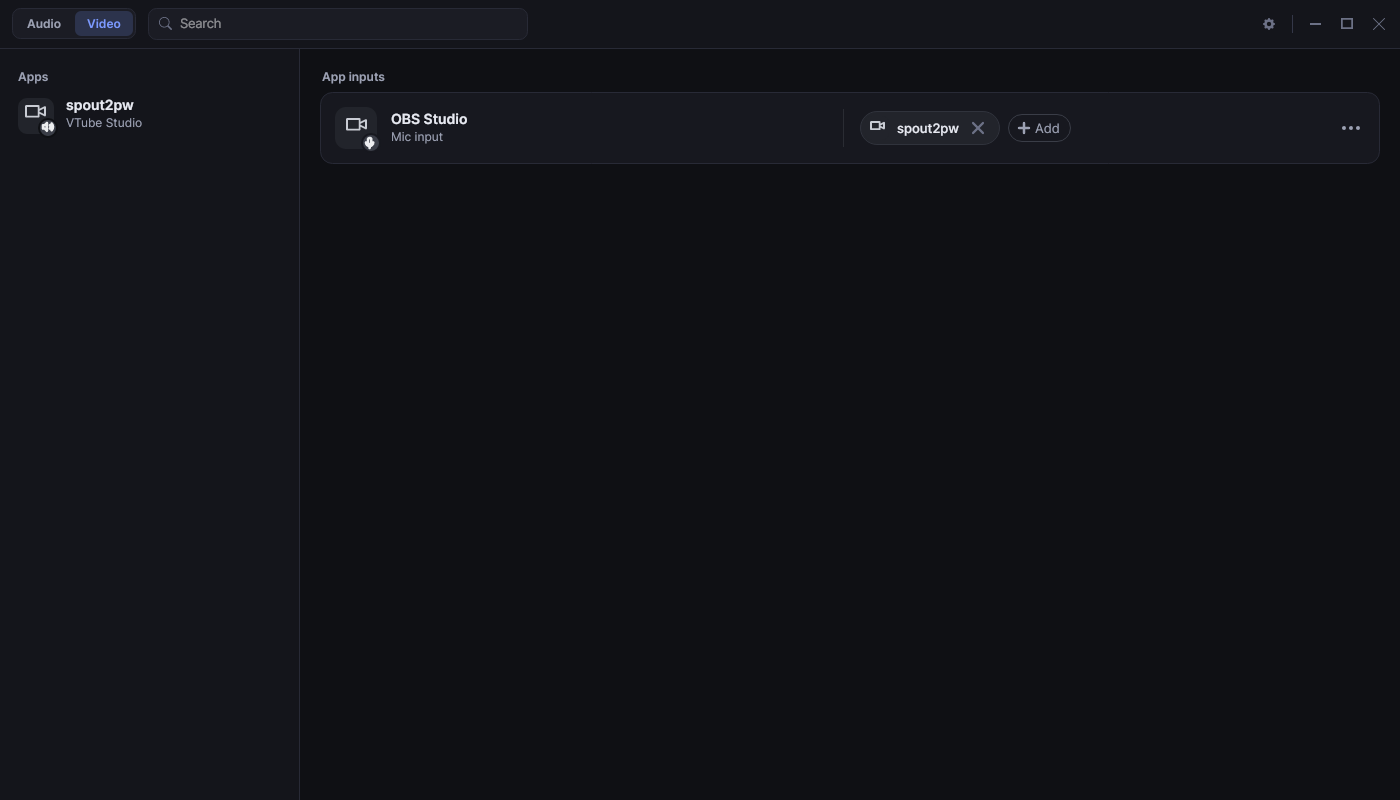
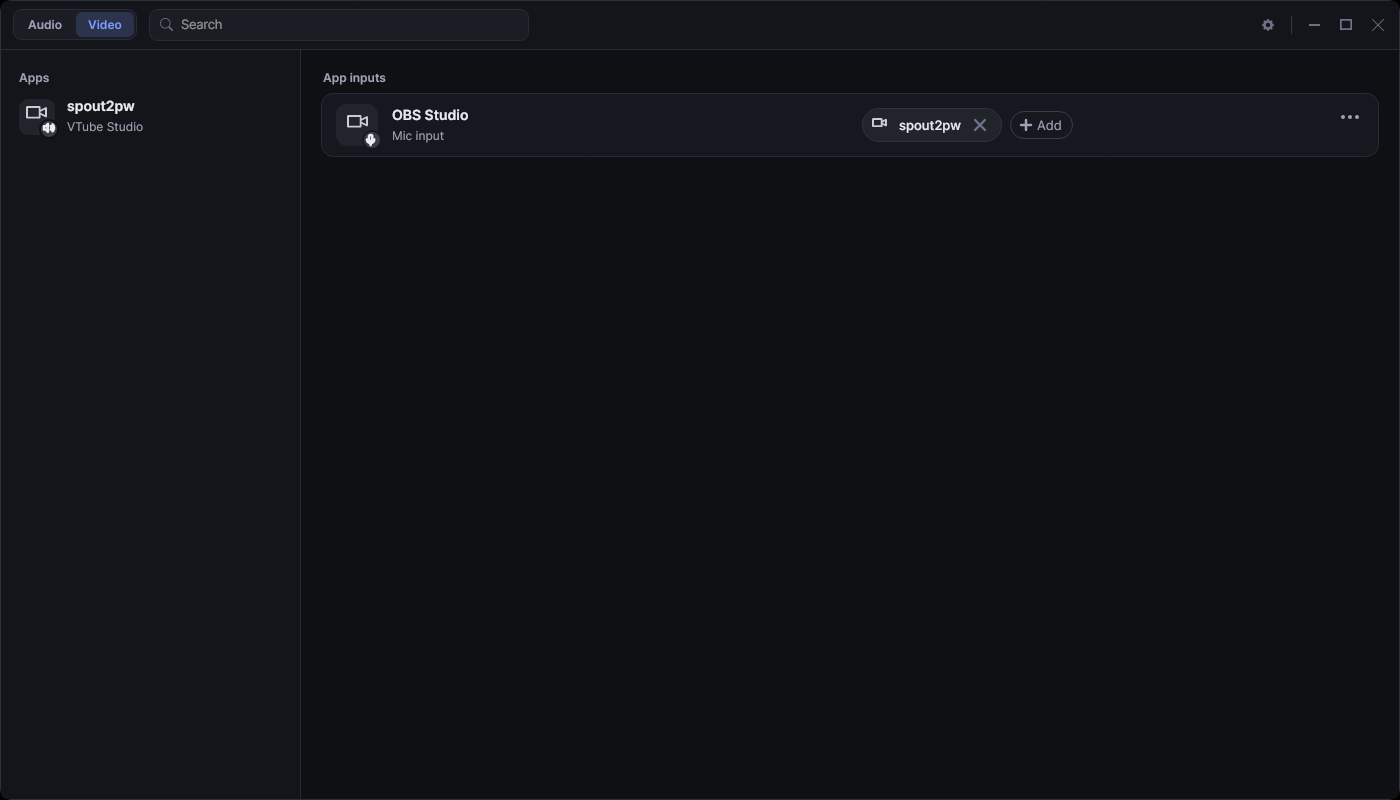
Fix drag flicker, drag cursor, row wrapping and the square window edge
From trying the redesign on a real desktop:

- Dragging over a row flickered: DragLeave bubbles up from the row's
  children, so crossing its icon, fader or chips cleared the highlight.
  Only clear it when the pointer really leaves the row, and while a drag
  is in flight stop row internals from hit-testing at all. The hovered
  row's content is greyed out under an accent outline.
- The drag cursor was the plain arrow: a Link drop makes X11 ask the
  cursor theme for "dnd-link", which Breeze doesn't ship. Use Copy
  ("dnd-copy"). Sources get a hand cursor on hover instead of SizeAll.
- Rows: identity + volume form one block and the chips a second one that
  wraps under the name (aligned with it) when the row is narrow, instead
  of being squeezed into a sliver that made rows tall and half empty.
  More room between names and their type/format line.
- The window gets rounded corners and a hairline border (transparent
  window, squared off when maximized), so it no longer looks like content
  sliced off at the screen edge.
- Screenshot tool: --size WxH.

diff --git a/src/AutoRoute.App/Behaviors/DropTargetBehavior.cs b/src/AutoRoute.App/Behaviors/DropTargetBehavior.cs
@@ -62,7 +62,9 @@ public static class DropTargetBehavior
         if (sender is not Control control) return;
         if (Compatible(control, e))
         {
-            e.DragEffects = DragDropEffects.Link;
+            // Copy, not Link: X11 asks the cursor theme for "dnd-link", which Breeze doesn't ship,
+            // so a Link drag fell back to the plain arrow. "dnd-copy" exists everywhere.
+            e.DragEffects = DragDropEffects.Copy;
             SetIsDragOver(control, true);
         }
         else
@@ -74,7 +76,13 @@ public static class DropTargetBehavior
 
     private static void OnDragLeave(object? sender, DragEventArgs e)
     {
-        if (sender is Control control) SetIsDragOver(control, false);
+        if (sender is not Control control) return;
+        // DragLeave bubbles up from children: crossing from the row onto its icon, fader or a chip
+        // "leaves" the child and used to clear the highlight on every crossing (the flicker). Only
+        // clear it when the pointer has actually left this control's bounds.
+        var p = e.GetPosition(control);
+        if (new Rect(control.Bounds.Size).Contains(p)) return;
+        SetIsDragOver(control, false);
     }
 
     private static void OnDrop(object? sender, DragEventArgs e)

diff --git a/src/AutoRoute.App/Behaviors/DragSourceBehavior.cs b/src/AutoRoute.App/Behaviors/DragSourceBehavior.cs
@@ -84,6 +84,10 @@ public static class DragSourceBehavior
         // whole drag (Avalonia renders no native drag image).
         var layer = Avalonia.Controls.Primitives.OverlayLayer.GetOverlayLayer(control);
         control.Classes.Add("dragging");
+        // While a drag is in flight, row internals stop hit-testing (BoardStyles) so the drop
+        // target is always the row itself: no hover flicker on buttons, no enter/leave churn.
+        var root = TopLevel.GetTopLevel(control);
+        root?.Classes.Add("dragActive");
         DragGhost.Show(control, GetDragLabel(control) ?? "Source",
             layer is null ? default : e.GetPosition(layer));
 
@@ -94,12 +98,13 @@ public static class DragSourceBehavior
         data.Set(SourceNodeFormat, nodeId.Value);
         try
         {
-            await DragDrop.DoDragDrop(e, data, DragDropEffects.Link | DragDropEffects.Copy);
+            await DragDrop.DoDragDrop(e, data, DragDropEffects.Copy | DragDropEffects.Link);
         }
         finally
         {
             DragGhost.Hide();
             control.Classes.Remove("dragging");
+            root?.Classes.Remove("dragActive");
         }
 #pragma warning restore CS0618
     }

diff --git a/src/AutoRoute.App/Design/ScreenshotTool.cs b/src/AutoRoute.App/Design/ScreenshotTool.cs
@@ -64,7 +64,14 @@ public static class ScreenshotTool
         var videoBoard = DevComposition.CreateInitializedVideoBoard(graph, tabs);
         var mainVm = new ViewModels.MainWindowViewModel(board, videoBoard, tabs);
 
-        var window = new MainWindow { DataContext = mainVm, Width = 1400, Height = 800 };
+        // --size WxH: render at a specific window size (default 1400x800).
+        double width = 1400, height = 800;
+        var sizeIdx = Array.IndexOf(args, "--size");
+        if (sizeIdx >= 0 && sizeIdx + 1 < args.Length && args[sizeIdx + 1].Split('x') is [var w, var h]
+            && double.TryParse(w, out var pw) && double.TryParse(h, out var ph))
+            (width, height) = (pw, ph);
+
+        var window = new MainWindow { DataContext = mainVm, Width = width, Height = height };
         window.Show();
         Dispatcher.UIThread.RunJobs();
 
